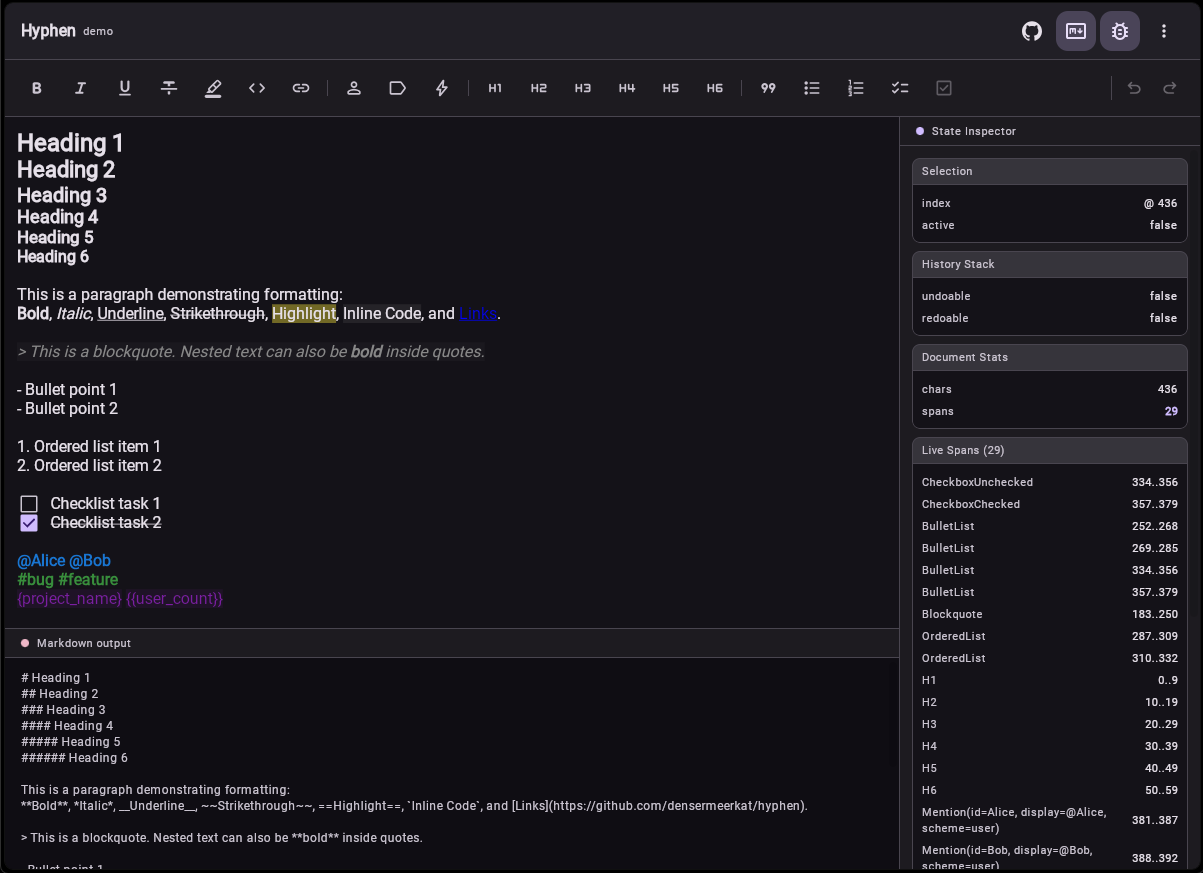
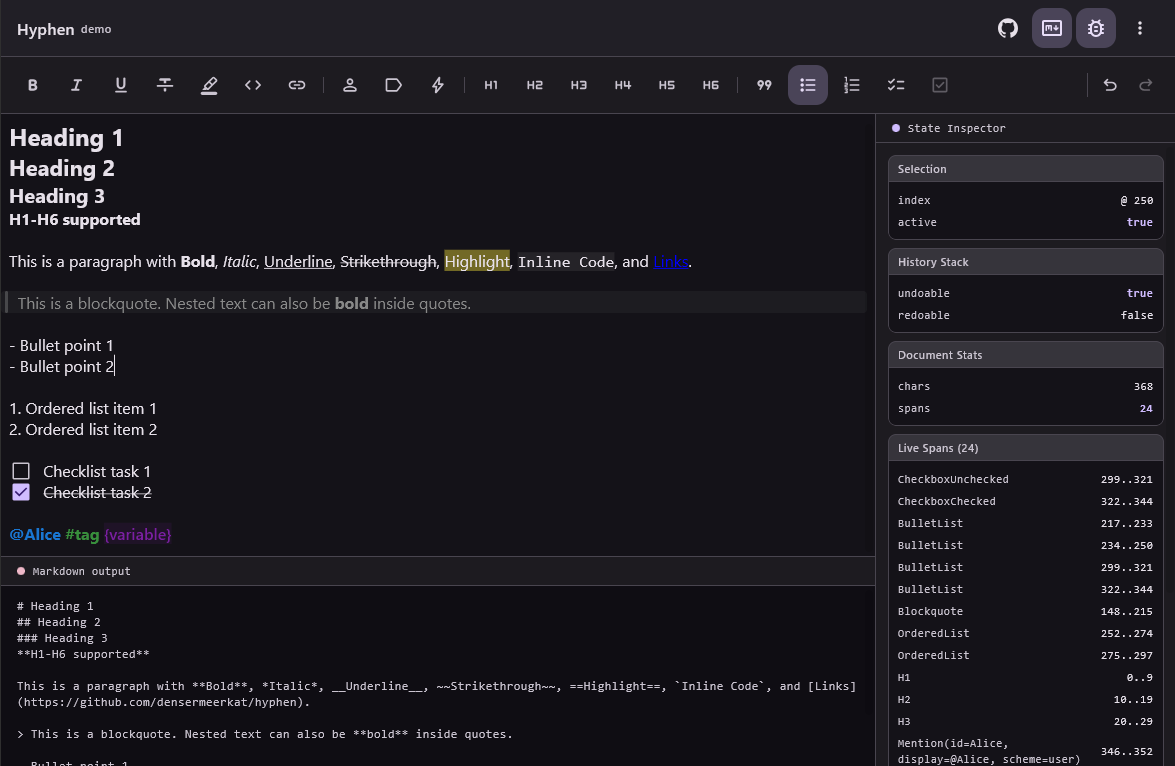
doc: update screenshots

diff --git a/sample/shared/src/commonMain/kotlin/com/denser/hyphen/sample/shared/HyphenSampleApp.kt b/sample/shared/src/commonMain/kotlin/com/denser/hyphen/sample/shared/HyphenSampleApp.kt
@@ -349,12 +349,9 @@ private val DEMO_TEXT = """
     # Heading 1
     ## Heading 2
     ### Heading 3
-    #### Heading 4
-    ##### Heading 5
-    ###### Heading 6
+    **H1-H6 supported**
     
-    This is a paragraph demonstrating formatting:
-    **Bold**, *Italic*, __Underline__, ~~Strikethrough~~, ==Highlight==, `Inline Code`, and [Links](https://github.com/densermeerkat/hyphen).
+    This is a paragraph with **Bold**, *Italic*, __Underline__, ~~Strikethrough~~, ==Highlight==, `Inline Code`, and [Links](https://github.com/densermeerkat/hyphen).
 
     > This is a blockquote. Nested text can also be **bold** inside quotes.
 
@@ -367,7 +364,5 @@ private val DEMO_TEXT = """
     - [ ] Checklist task 1
     - [x] Checklist task 2
 
-    @Alice @Bob
-    #bug #feature
-    {project_name} {{user_count}}
+    @Alice #tag {variable}
 """.trimIndent()
